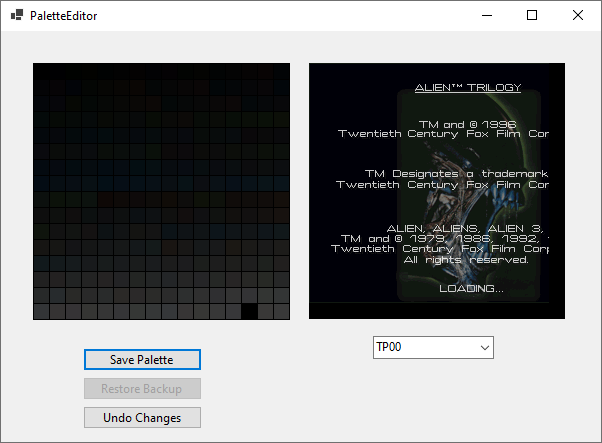
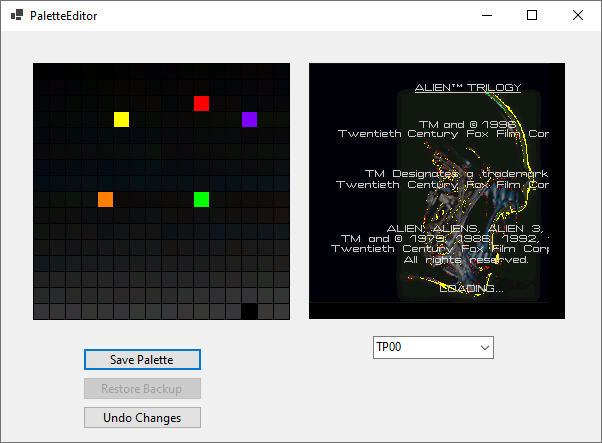
image update

diff --git a/ALTViewer/PaletteEditor.cs b/ALTViewer/PaletteEditor.cs
@@ -44,7 +44,7 @@ namespace ALTViewer
         // palette section mouse click event
         private void PaletteEditorForm_MouseClick(object sender, MouseEventArgs e)
         {
-            int index = (e.Y / 16) * 16 + (e.X / 16);
+            int index = ((e.Y - 32) / 16) * 16 + ((e.X - 32) / 16);
             if (index < palette.Length / 3)
             {
                 using ColorDialog dlg = new();
@@ -55,6 +55,7 @@ namespace ALTViewer
                     palette[index * 3 + 1] = dlg.Color.G;
                     palette[index * 3 + 2] = dlg.Color.B;
                     Invalidate();
+                    RenderImage();
                 }
             }
         }
